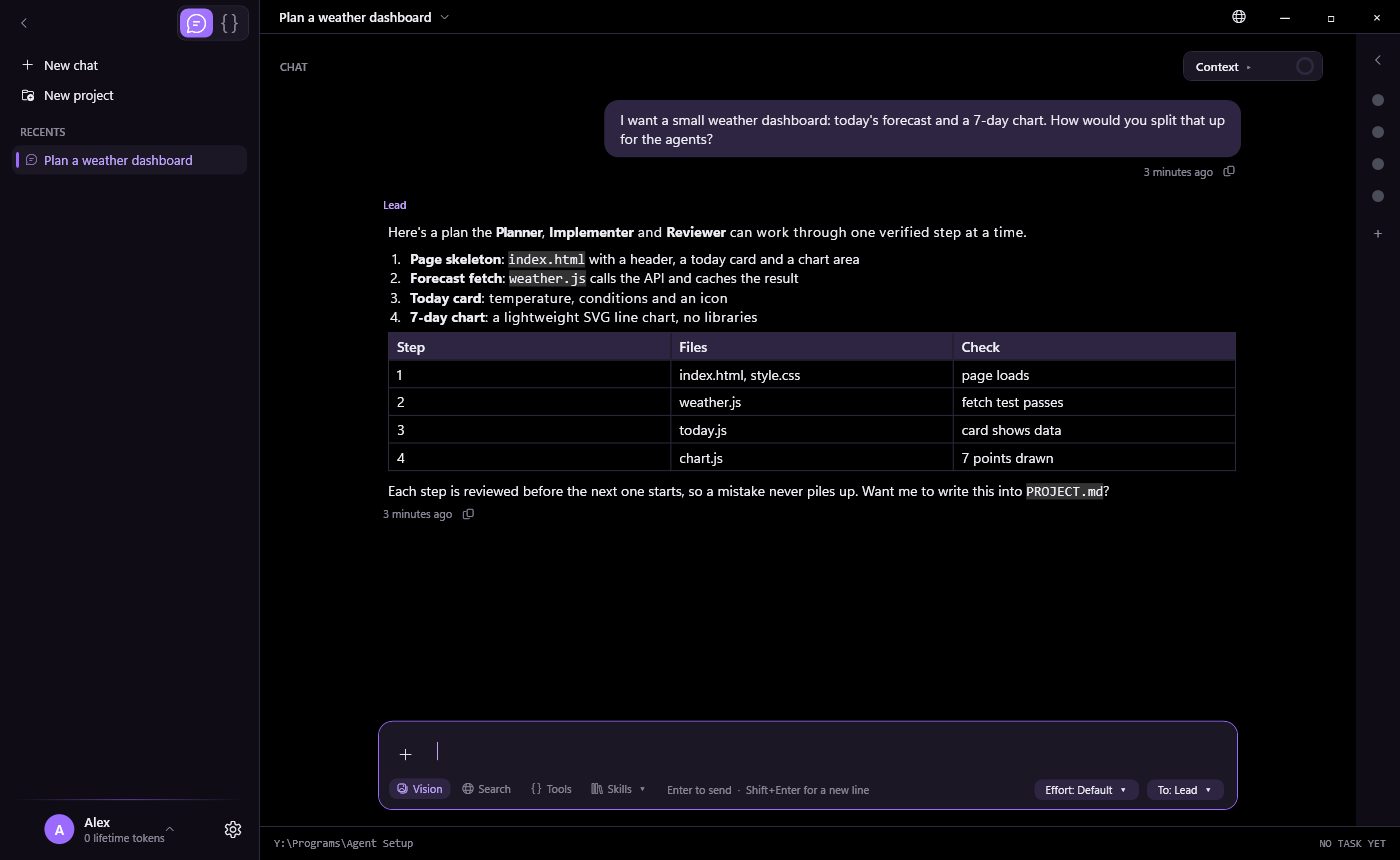
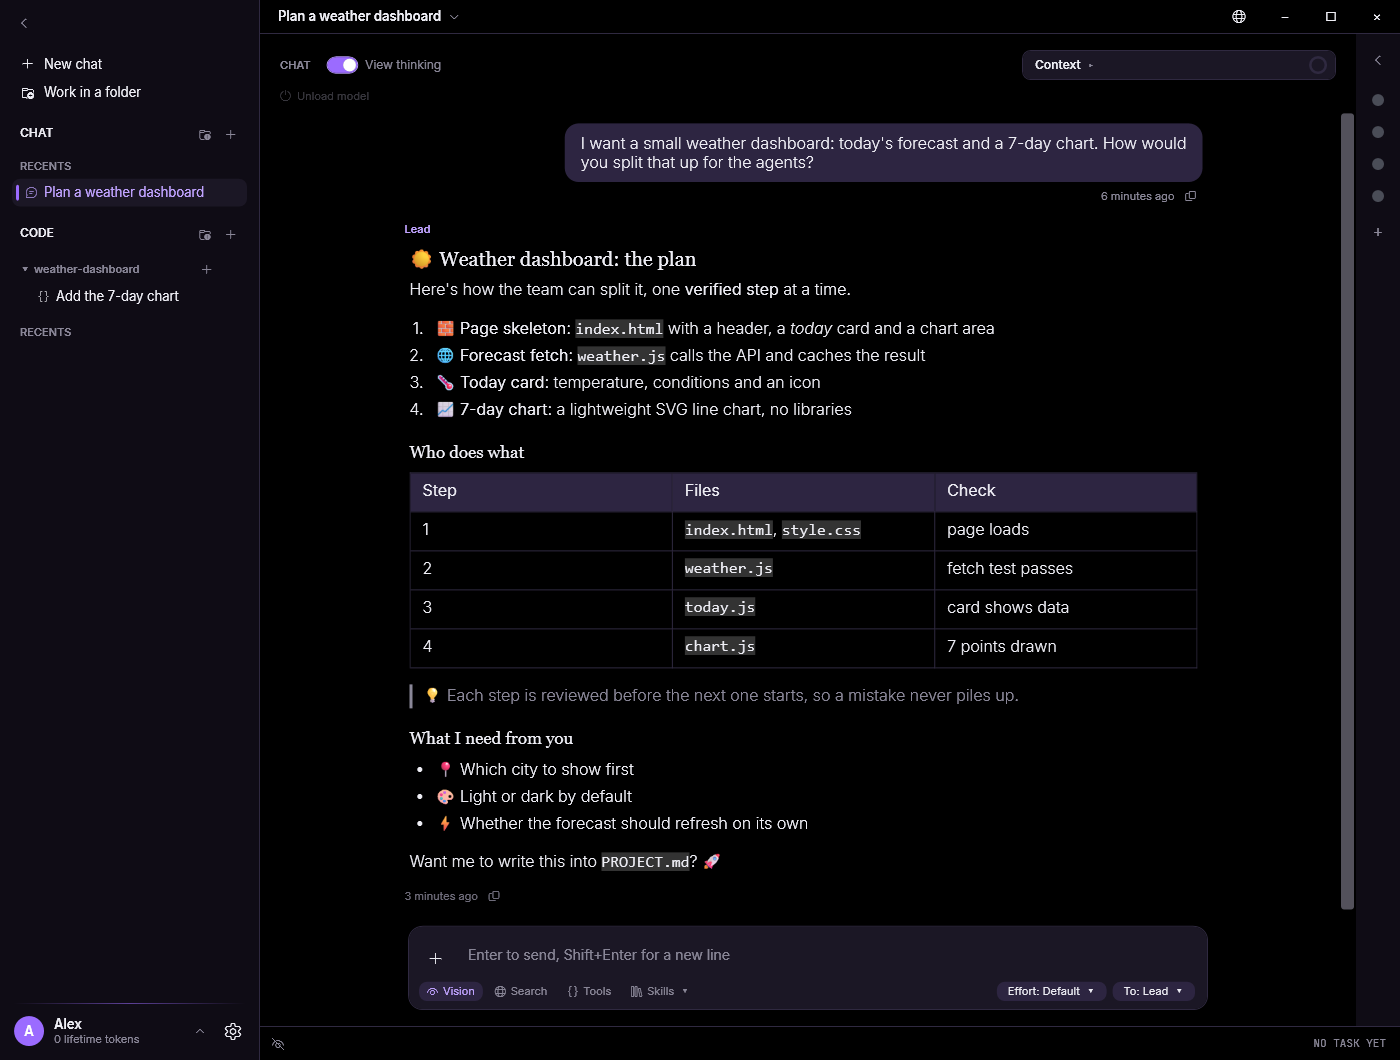
New README pictures: Graphite first, and a project run with its model switches

diff --git a/launcher/AgentOrchestrator/MainWindow.Screenshots.cs b/launcher/AgentOrchestrator/MainWindow.Screenshots.cs
@@ -32,6 +32,27 @@ public partial class MainWindow
         encoder.Save(file);
     }
 
+    // A project run part-way through, as the events of a Start project run draw it: the Lead works an item, the Reviewer
+    // checks it, and a rule marks each switch from one model to the other.
+    private async Task RunPictureAsync(Func<Task> settle)
+    {
+        foreach (var json in new[]
+        {
+            """{"e":"model","role":"planner","id":"Qwen3.5-4B Q4_K_M"}""",
+            """{"e":"message","role":"planner","text":"Item 2 of 4: the forecast fetch. The page skeleton is in place, so I'll add `weather.js` and call it from `index.html`.","final":false}""",
+            """{"e":"tool","role":"planner","name":"write_file","args":"{\"path\":\"weather.js\"}","result":"Wrote weather.js (38 lines)"}""",
+            """{"e":"tool","role":"planner","name":"run_checks","args":"{}","result":"fetch test: passed (4 of 4)"}""",
+            """{"e":"message","role":"planner","text":"weather.js fetches the forecast, caches it for ten minutes and the fetch test passes. Item 2 is ready for review.","final":false}""",
+            """{"e":"model","role":"reviewer","id":"Qwen3.5-4B Q4_K_M"}""",
+            """{"e":"message","role":"reviewer","text":"PASS. The fetch is cached, errors fall back to the last forecast, and nothing outside weather.js changed.","final":false}""",
+            """{"e":"model","role":"planner","id":"Qwen3.5-4B Q4_K_M"}""",
+            """{"e":"message","role":"planner","text":"Item 2 is recorded in STATE.md. Item 3 of 4: the today card.","final":false}""",
+        })
+            _lines.Enqueue(LauncherLogic.EventPrefix + json);
+        DrainLines();
+        await settle();
+    }
+
     internal async Task RunScreenshotsAsync(string folder)
     {
         _settingsShow = window => { window.ShowActivated = false; window.Show(); };
@@ -68,7 +89,8 @@ public partial class MainWindow
         }
 
         await Settle();
-        foreach (var (theme, accent) in new[] { ("ParchmentDark", "Clay"), ("Parchment", "Clay"), ("Graphite", "Silver"), ("Oled", "Purple"), ("Glass", "LightBlue"), ("Gold", "Gold") })
+        // Graphite with its light-gray accent (the app's default look) comes first: chat-Graphite is the README's opening picture.
+        foreach (var (theme, accent) in new[] { ("Graphite", "Silver"), ("ParchmentDark", "Clay"), ("Parchment", "Clay"), ("Oled", "Purple"), ("Glass", "LightBlue"), ("Gold", "Gold") })
         {
             Look(theme, accent);
             if (chat is not null)
@@ -77,10 +99,12 @@ public partial class MainWindow
                 OpenChatConversation(chat.Id);
                 ShowView(chat: true);
                 await Settle();
+                ChatScroll.ScrollToTop(); // from the first message, headings and all
+                await Settle();
                 Snap("chat-" + theme);
             }
         }
-        Look("ParchmentDark", "Clay");
+        Look("Graphite", "Silver");
         if (code is not null)
         {
             ShowView();
@@ -88,6 +112,8 @@ public partial class MainWindow
             SetWorkerRail(true);
             await Settle();
             Snap("code");
+            await RunPictureAsync(Settle);
+            Snap("project");
             SetWorkerRail(false);
             SelectWorker(CardFor("planner"));
             await Settle();

diff --git a/launcher/AgentOrchestrator/App.xaml.cs b/launcher/AgentOrchestrator/App.xaml.cs
@@ -57,7 +57,7 @@ public partial class App : Application
         {
             var window = new MainWindow
             {
-                WindowStartupLocation = WindowStartupLocation.Manual, Left = -20000, Top = -20000, Width = 1400, Height = 860,
+                WindowStartupLocation = WindowStartupLocation.Manual, Left = -20000, Top = -20000, Width = 1400, Height = 1060, // tall enough for a whole conversation in one picture
                 ShowActivated = false, ShowInTaskbar = false,
             };
             window.Show();

diff --git a/README.md b/README.md
@@ -2,7 +2,7 @@
 
 **The harness for your local AI setup: a team of local models that builds software with you, one reviewed step at a time.**
 
-![Agent Orchestrator in the Dark Parchment theme](docs/images/chat-ParchmentDark.png)
+![Agent Orchestrator in the Graphite theme: a conversation with headings, lists, a table, a quote and emoji](docs/images/chat-Graphite.png)
 
 Big cloud models are impressive, but they cost money, send your code somewhere else, and change under you without asking. Agent Orchestrator takes another route. It's a harness for the models already on your PC: it gives them tools, a sandbox, a browser and a workflow, and has them work as a team: a **Lead** plans the work, an optional **Implementer** writes the code, and a **Reviewer** checks every finished item before the next one starts. A mistake gets caught where it happens instead of piling up. You describe what you want in plain words, press **Start project**, and watch the work happen, or just chat with your models when you want a second opinion.
 
@@ -22,6 +22,8 @@ A small model can write good code, but it loses its way in a long task: its cont
 
 Write or generate a `PROJECT.md`, press **Start project**, and come back to verified, recorded work.
 
+![A project run: the Lead works an item, the Reviewer checks it, and a line marks each switch from one model to the next](docs/images/project.png)
+
 ### Multi-agent workflows without the wiring
 
 Setting up several agents usually means config files, ports and scripts. Here it's a row of cards. Each worker (Lead, Implementer, Reviewer, Compactor and any you add) gets its own model, picked from a list of the models you have installed, with context length and sampling settings right beside it. Save a setup as a preset and switch between setups in one click.
@@ -39,11 +41,11 @@ Your models, your code and your conversations stay on your machine. The app runs
 
 ### A Claude-like interface you can make your own
 
-If you've used Claude, you'll feel at home: conversations in a sidebar, a clean composer, markdown replies with code blocks and tables, and a Code view for working inside a project folder. Choose from seven themes, Dark Parchment, Parchment, Graphite, OLED, Liquid Glass, Track Gold and Flat, and give each one its own accent colour.
+If you've used Claude, you'll feel at home: conversations in a sidebar, a clean composer, markdown replies with code blocks and tables, and a Code view for working inside a project folder. Choose from seven themes, Graphite (the default, shown above), Dark Parchment, Parchment, OLED, Liquid Glass, Track Gold and Flat, and give each one its own accent colour.
 
 | | |
 |---|---|
-| ![Parchment](docs/images/chat-Parchment.png) | ![Graphite](docs/images/chat-Graphite.png) |
+| ![Dark Parchment](docs/images/chat-ParchmentDark.png) | ![Parchment](docs/images/chat-Parchment.png) |
 | ![OLED](docs/images/chat-Oled.png) | ![Liquid Glass](docs/images/chat-Glass.png) |
 
 ![Settings: themes and accent colours](docs/images/settings-appearance.png)

diff --git a/docs/reference.md b/docs/reference.md
@@ -32,7 +32,7 @@ Double-click `dist\Agent Orchestrator.exe` for the graphical launcher (`publish.
 The window follows the Image Parser design language: selectable themes (Dark Parchment is the default; Parchment is a light theme; Flat, Track Gold, Liquid Glass, OLED and Graphite are dark) with per-theme accent colours, a left navigation panel, and a two-column workspace with a draggable divider.
 
 - The Code header's start button reads **Start project** until the folder has the workflow files, then *Start Task* for a project with no tasks yet, and otherwise **Resume Project — <task>**, naming the active task (from `TASK.md`) or the last one that passed (Ctrl+Enter).
-- A project run's **model output** goes into the Code conversation, after the messages shown when it started: each agent's thinking, tool calls with results, and responses in execution order, between a **PROJECT RUN** note and one saying how the run ended. Thinking and tool sections are collapsible (Ctrl+E / Ctrl+Shift+E expand or collapse them all). TASK TIME and TURN TIME sit in the Code header once a run has started.
+- A project run's **model output** goes into the Code conversation, after the messages shown when it started: each agent's thinking, tool calls with results, and responses in execution order (a thin line marks where one model's output gives way to another's, in a project run and in a reply that hands a part to another worker), between a **PROJECT RUN** note and one saying how the run ended. Thinking and tool sections are collapsible (Ctrl+E / Ctrl+Shift+E expand or collapse them all). TASK TIME and TURN TIME sit in the Code header once a run has started.
 - The **execution log** is saved per day in the data folder's `logs` (kept 14 days); **Project > Open run logs** opens the folder and **Copy run log** copies the last run's log.
 - **Model details** (right column) has one card per role with the model name, weights, quantization, live tokens/sec, and total tokens for the current turn. Speed and token counts come from llama-server's `/slots` data.
 - While a reply or a run is using the models, a stop icon appears to the left of **Send** (Ctrl+Shift+X). It stops the run, or the reply; stopping a run or closing the window also stops the llama-server and frees its models.
